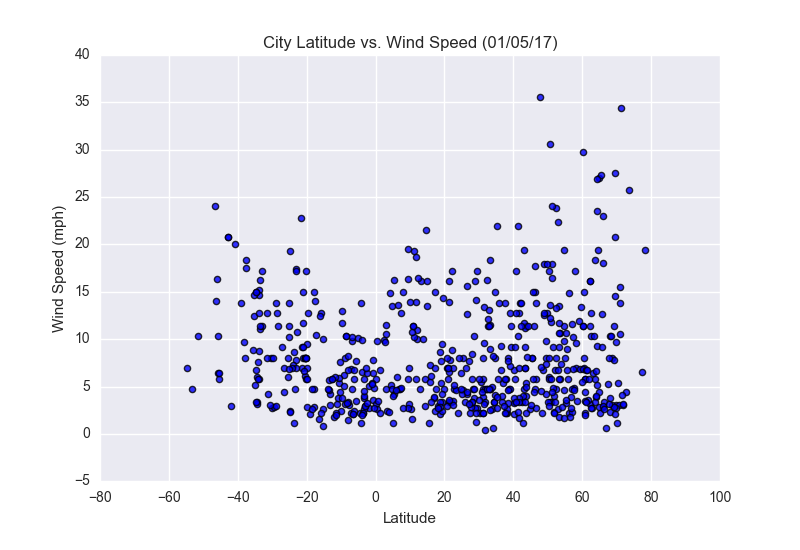
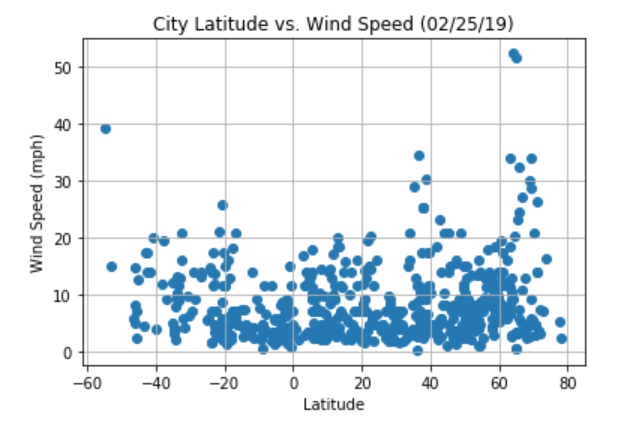
finish

diff --git a/visual_1.html b/visual_1.html
@@ -48,11 +48,9 @@
           Max Temperature
         </div>
         <div class="col-lg-12 col-md-12 col-sm-12">
-          <p><strong>What is Lorem Ipsum?</strong></p>
-          <p>Lorem Ipsum is simply dummy text of the printing and typesetting industry. Lorem Ipsum has been the industry's standard dummy text ever since the 1500s, when an unknown printer took a galley of type and scrambled it to make a type specimen book. It has survived not only five centuries, but also the leap into electronic typesetting, remaining essentially unchanged. It was popularised in the 1960s with the release of Letraset sheets containing Lorem Ipsum passages, and more recently with desktop publishing software like Aldus PageMaker including versions of Lorem Ipsum.</p>
-          <p><strong>Why do we use it?</strong></p>
-          <p>
-        It is a long established fact that a reader will be distracted by the readable content of a page when looking at its layout. The point of using Lorem Ipsum is that it has a more-or-less normal distribution of letters, as opposed to using 'Content here, content here', making it look like readable English. Many desktop publishing packages and web page editors now use Lorem Ipsum as their default model text, and a search for 'lorem ipsum' will uncover many web sites still in their infancy. Various versions have evolved over the years, sometimes by accident, sometimes on purpose (injected humour and the like).</p>
+          <span class="featured"><img src="Resources/assets/images/Fig1.png"></span>
+          <p>Weather around equator (-20 Deg. to 20 Deg Latitude) have higher max temperature. And Southern hemisphere has higher max temperature than northern hemisphere on 02/25/2019.</p>
+          <p>As expected, the weather becomes significantly warmer as one approaches the equator (0 Deg. Latitude). More interestingly, however, is the fact that the southern hemisphere tends to be warmer this time of year than the northern hemisphere. This may be due to the tilt of the earth.</p>
         </div>
       </div>
       <div class="right_col">
@@ -60,7 +58,7 @@
         <div class="row">
           <div class="col-lg-12 col-md-6 col-sm-6">
             <div class="col-lg-6 col-md-6 col-sm-12 float-left">
-              <a href="visual_1.html"><img src="Resources/assets/images/Fig1.png"></a>
+              <a href="visual_1.html"><img class="current" src="Resources/assets/images/Fig1.png"></a>
             </div>
             <div class="col-lg-6 col-md-6 col-sm-12 float-right">
               <a href="visual_2.html"><img src="Resources/assets/images/Fig2.png"></a>

diff --git a/visual_3.html b/visual_3.html
@@ -47,11 +47,9 @@
           Cloudiness
         </div>
         <div class="col-lg-12 col-md-12 col-sm-12">
-          <p><strong>What is Lorem Ipsum?</strong></p>
-          <p>Lorem Ipsum is simply dummy text of the printing and typesetting industry. Lorem Ipsum has been the industry's standard dummy text ever since the 1500s, when an unknown printer took a galley of type and scrambled it to make a type specimen book. It has survived not only five centuries, but also the leap into electronic typesetting, remaining essentially unchanged. It was popularised in the 1960s with the release of Letraset sheets containing Lorem Ipsum passages, and more recently with desktop publishing software like Aldus PageMaker including versions of Lorem Ipsum.</p>
-          <p><strong>Why do we use it?</strong></p>
-          <p>
-        It is a long established fact that a reader will be distracted by the readable content of a page when looking at its layout. The point of using Lorem Ipsum is that it has a more-or-less normal distribution of letters, as opposed to using 'Content here, content here', making it look like readable English. Many desktop publishing packages and web page editors now use Lorem Ipsum as their default model text, and a search for 'lorem ipsum' will uncover many web sites still in their infancy. Various versions have evolved over the years, sometimes by accident, sometimes on purpose (injected humour and the like).</p>
+          <span class="featured"><img src="Resources/assets/images/Fig3.png"></span>
+          <p>Cloudiness have no strong relationship with latitude on 02/25/2019</p>
+          <p>However, it is interesting to see that a strong band of cities sits at 0, 80, and 100% cloudiness.</p>
         </div>
       </div>
       <div class="right_col">
@@ -67,7 +65,7 @@
           </div>
           <div class="col-lg-12 col-md-6 col-sm-6">
             <div class="col-lg-6 col-md-6 col-sm-12 float-left">
-              <a href="visual_3.html"><img src="Resources/assets/images/Fig3.png"></a>
+              <a href="visual_3.html"><img class="current" src="Resources/assets/images/Fig3.png"></a>
             </div>
             <div class="col-lg-6 col-md-6 col-sm-12 float-right">
               <a href="visual_4.html"><img src="Resources/assets/images/Fig4.png"></a>

diff --git a/visual_2.html b/visual_2.html
@@ -48,11 +48,9 @@
           Humidity 
         </div>
         <div class="col-lg-12 col-md-12 col-sm-12">
-          <p><strong>What is Lorem Ipsum?</strong></p>
-          <p>Lorem Ipsum is simply dummy text of the printing and typesetting industry. Lorem Ipsum has been the industry's standard dummy text ever since the 1500s, when an unknown printer took a galley of type and scrambled it to make a type specimen book. It has survived not only five centuries, but also the leap into electronic typesetting, remaining essentially unchanged. It was popularised in the 1960s with the release of Letraset sheets containing Lorem Ipsum passages, and more recently with desktop publishing software like Aldus PageMaker including versions of Lorem Ipsum.</p>
-          <p><strong>Why do we use it?</strong></p>
-          <p>
-        It is a long established fact that a reader will be distracted by the readable content of a page when looking at its layout. The point of using Lorem Ipsum is that it has a more-or-less normal distribution of letters, as opposed to using 'Content here, content here', making it look like readable English. Many desktop publishing packages and web page editors now use Lorem Ipsum as their default model text, and a search for 'lorem ipsum' will uncover many web sites still in their infancy. Various versions have evolved over the years, sometimes by accident, sometimes on purpose (injected humour and the like).</p>
+          <span class="featured"><img src="Resources/assets/images/Fig2.png"></span>
+          <p>Humidity have no strong relationship with latitude on 02/25/2019</p>
+          <p>By estimate, about 2/3 cities in analysis have humidiy greater than 60 on 02/25/2019</p>
         </div>
       </div>
       <div class="right_col">
@@ -63,7 +61,7 @@
               <a href="visual_1.html"><img src="Resources/assets/images/Fig1.png"></a>
             </div>
             <div class="col-lg-6 col-md-6 col-sm-12 float-right">
-              <a href="visual_2.html"><img src="Resources/assets/images/Fig2.png"></a>
+              <a href="visual_2.html"><img class="current" src="Resources/assets/images/Fig2.png"></a>
             </div>
           </div>
           <div class="col-lg-12 col-md-6 col-sm-6">

diff --git a/visual_4.html b/visual_4.html
@@ -48,11 +48,9 @@
           Wind Speed
         </div>
         <div class="col-lg-12 col-md-12 col-sm-12">
-          <p><strong>What is Lorem Ipsum?</strong></p>
-          <p>Lorem Ipsum is simply dummy text of the printing and typesetting industry. Lorem Ipsum has been the industry's standard dummy text ever since the 1500s, when an unknown printer took a galley of type and scrambled it to make a type specimen book. It has survived not only five centuries, but also the leap into electronic typesetting, remaining essentially unchanged. It was popularised in the 1960s with the release of Letraset sheets containing Lorem Ipsum passages, and more recently with desktop publishing software like Aldus PageMaker including versions of Lorem Ipsum.</p>
-          <p><strong>Why do we use it?</strong></p>
-          <p>
-        It is a long established fact that a reader will be distracted by the readable content of a page when looking at its layout. The point of using Lorem Ipsum is that it has a more-or-less normal distribution of letters, as opposed to using 'Content here, content here', making it look like readable English. Many desktop publishing packages and web page editors now use Lorem Ipsum as their default model text, and a search for 'lorem ipsum' will uncover many web sites still in their infancy. Various versions have evolved over the years, sometimes by accident, sometimes on purpose (injected humour and the like).</p>
+          <span class="featured"><img src="Resources/assets/images/Fig4.png"></span>
+          <p>Wind Speed have no strong relationship with latitude on 02/25/2019</p>
+          <p>The majority of Wind Speed range for the cities in analysis is 0-20mph on 02/25/2019</p>
         </div>
       </div>
       <div class="right_col">
@@ -71,7 +69,7 @@
               <a href="visual_3.html"><img src="Resources/assets/images/Fig3.png"></a>
             </div>
             <div class="col-lg-6 col-md-6 col-sm-12 float-right">
-              <a href="visual_4.html"><img src="Resources/assets/images/Fig4.png"></a>
+              <a href="visual_4.html"><img class="current" src="Resources/assets/images/Fig4.png"></a>
             </div>
           </div>
         </div>

diff --git a/index.html b/index.html
@@ -48,11 +48,9 @@
           Summary: Latitude vs. X 
         </div>
         <div class="col-lg-12 col-md-12 col-sm-12">
-          <p><strong>What is Lorem Ipsum?</strong></p>
-          <p>Lorem Ipsum is simply dummy text of the printing and typesetting industry. Lorem Ipsum has been the industry's standard dummy text ever since the 1500s, when an unknown printer took a galley of type and scrambled it to make a type specimen book. It has survived not only five centuries, but also the leap into electronic typesetting, remaining essentially unchanged. It was popularised in the 1960s with the release of Letraset sheets containing Lorem Ipsum passages, and more recently with desktop publishing software like Aldus PageMaker including versions of Lorem Ipsum.</p>
-          <p><strong>Why do we use it?</strong></p>
-          <p>
-        It is a long established fact that a reader will be distracted by the readable content of a page when looking at its layout. The point of using Lorem Ipsum is that it has a more-or-less normal distribution of letters, as opposed to using 'Content here, content here', making it look like readable English. Many desktop publishing packages and web page editors now use Lorem Ipsum as their default model text, and a search for 'lorem ipsum' will uncover many web sites still in their infancy. Various versions have evolved over the years, sometimes by accident, sometimes on purpose (injected humour and the like).</p>
+          <span class="example"><img src="Resources/assets/images/Fig1.png"></span>
+          <p>The purpose of this project was to analyze how weather changes as you get closer to the equator. To accomplish this analysis, we first pulled data from the OpenWeatherMap API to assemble a dataset on over 500 cities.</p>
+          <p>After assembling the dataset, we used Matplotlib to plot various aspects of the weather vs. latitude. Factors we looked at included: temperature, cloudiness, wind speed, and humidity. This site provides the source data and visualizations created as part of the analysis, as well as explanations and descriptions of any trends and correlations witnessed.</p>
         </div>
       </div>
       <div class="right_col">

diff --git a/style.css b/style.css
@@ -31,8 +31,27 @@ nav > div.navbar-collapse {
 	width: 100%;
 }
 
+.lat_body img.current {
+	border: 1px solid #0ea39c;
+}
+
+.lat_body .example img {
+	display: inline-block;
+	float: left;
+	width: 45%;
+}
+
+.lat_body .featured img {
+	display: inline-block;
+	float: left;
+	width: 100%;
+	padding: 0 20px;
+}
+
 .align_center.lat_body {
 	background: #eee;
+	display: inline-block;
+	margin-bottom: 50px;
 }
 
 .lat_body > .cont {
